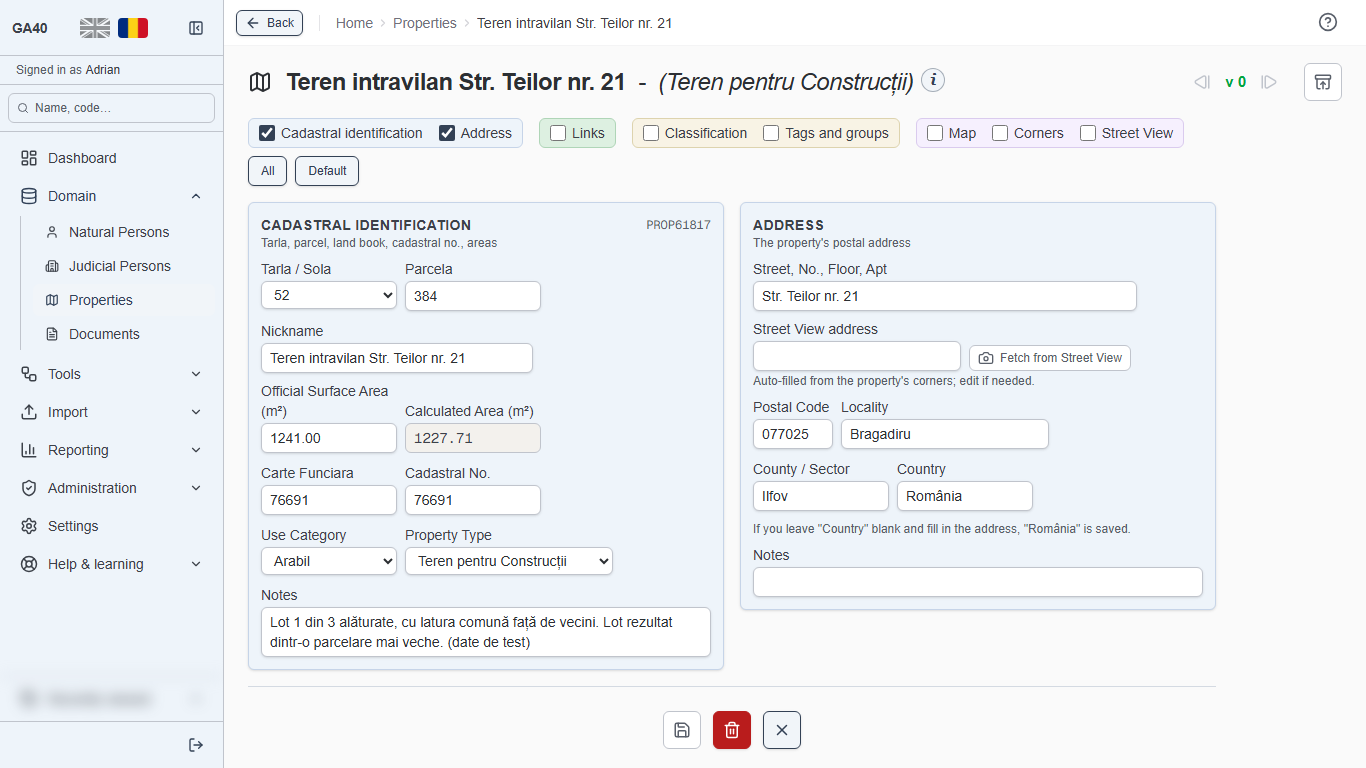
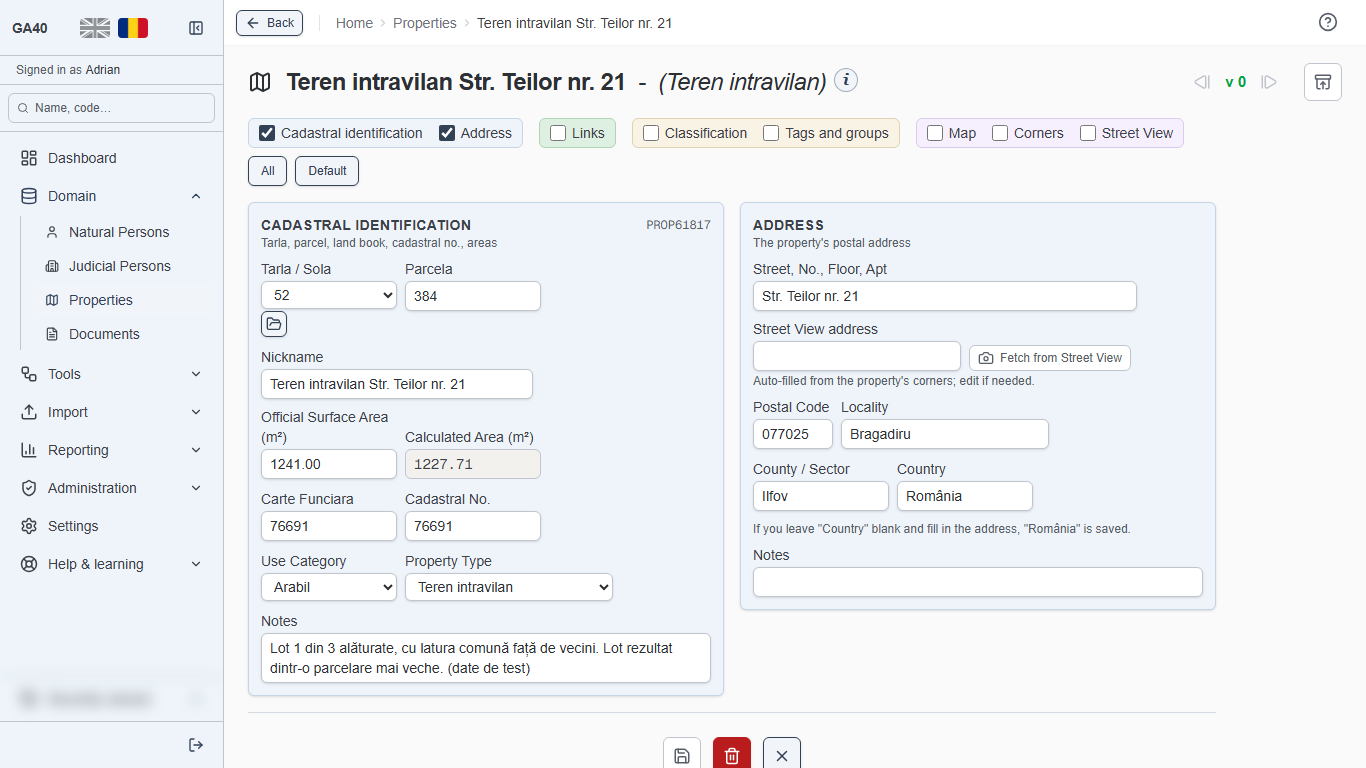
test(tarla): the import insert pins its locality; 5.2.5 says the rule without quoting it; figure 5 re-shot (#39.67)
tarla-is-a-reference: `.values({ indicativ: value, locality, origin: "IMPORT" })`. Manual 5.2.5: „one property per parcel" is not a screen label. properties-record.png in both languages, from the runner's e2e in targeted 20261017T124737Z-15126 (manual.spec): the tarla page button under Nr. tarla / sola and the agreed type names; no identity field.

Claude-Session: https://claude.ai/code/session_01HAw7HzTB6iN96oSz25xmre

Changed region(s): [[0.1845, 0.4062, 0.5227, 0.9062], [0.4919, 0.9062, 0.5842, 1.0], [0.5227, 0.0938, 0.7072, 0.125]]

diff --git a/src/lib/manual/content/en-GB/05-properties.ts b/src/lib/manual/content/en-GB/05-properties.ts
@@ -98,7 +98,7 @@ The bin („Delete”) asks first: „Delete property?”. „No” leaves you o
 
 ### 5.2.5 A tarla and its locality {#properties-tarla}
 
-Tarla numbers restart in every locality: T50 in Bragadiru is not T50 in Cornetu. So a tarla belongs to a locality, and the rule „one property per parcel” (section [[properties-add-one-parcel]]) compares only parcels in the same locality: parcel 1 on T50 in Cornetu is not refused because parcel 1 on T50 in Bragadiru exists.
+Tarla numbers restart in every locality: T50 in Bragadiru is not T50 in Cornetu. So a tarla belongs to a locality, and the rule of one property per parcel (section [[properties-add-one-parcel]]) compares only parcels in the same locality: parcel 1 on T50 in Cornetu is not refused because parcel 1 on T50 in Bragadiru exists.
 
 In „Reference Data” → „Tarla Codes”, each tarla has a „Locality” and a „County”, read together on its row, for instance Bragadiru, Ilfov. The same code can exist once in each locality. In a property's „Tarla / Sola”, a code two tarlale share shows its locality in brackets, and the button „Open the tarla's page” under the list opens the chosen tarla.
 

diff --git a/src/__tests__/tarla-is-a-reference.test.ts b/src/__tests__/tarla-is-a-reference.test.ts
@@ -407,7 +407,8 @@ describe("only an import can still create a tarla code", () => {
     // Slice #39.67: the locality is written beside the code (was `.values({indicativ:value,origin:""})`).
     expect(fn.replace(/\s+/g, "")).toContain('.values({indicativ:value,locality,origin:""})');
     // …and this half asserts the VALUE, unblanked.
-    expect(q).toContain('.values({ indicativ: value, origin: "IMPORT" })');
+    // Slice #39.67: the locality beside the code (was `.values({ indicativ: value, origin: "IMPORT" })`).
+    expect(q).toContain('.values({ indicativ: value, locality, origin: "IMPORT" })');
   });
 });
 
